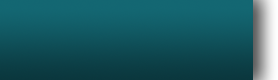
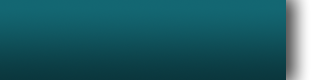
Start of info bar work
ESA logo, donation total area images and clock

Changed region(s): [[0.8921, 0.0, 0.9209, 1.0]]

diff --git a/graphics/info-bar.html b/graphics/info-bar.html
@@ -8,32 +8,38 @@
 		<link href="css/info-bar.css" rel="stylesheet"/>
 		
 		<!-- JavaScript -->
-		<!--<script src="../bower_components/jquery/dist/jquery.min.js"></script>
+		<script src="../bower_components/jquery/dist/jquery.min.js"></script>
 		<script src="../bower_components/moment/min/moment.min.js"></script>
-		<script src="../bower_components/lodash/dist/lodash.min.js"></script>
-		<script src="../bower_components/jquery-animateNumber/jquery.animateNumber.min.js"></script>
+		<!--<script src="../bower_components/lodash/dist/lodash.min.js"></script>-->
+		<!--<script src="../bower_components/jquery-animateNumber/jquery.animateNumber.min.js"></script>-->
 		<script src="js/animation.js"></script>
-		<script src="js/intermission-utils.js"></script>
+		<script src="js/info-bar/tick-handler.js"></script>
 		<script src="js/info-bar/clock.js"></script>
-		<script src="js/info-bar/general.js"></script>-->
+		<script src="js/info-bar/esa-logo.js"></script>
+		<script src="js/info-bar/donation-total.js"></script>
 	</head>
 	<body>
 		<div id="barWrapper" class="storageBox flexContainer">
 			<!-- ESA Logo -->
 			<div id="esaBarLogoContainer" class="barContainers">
-				<div id="esaBarLogo"></div>
+				<img id="esaSmallLogo" src="images/info-bar/esa-small-logo.png">
+				<img id="esaHashtagLogo" src="images/info-bar/esa-hashtag-logo.png">
 			</div>
 			
 			<!-- Donation Total -->
 			<div id="donationTotalContainer" class="barContainers flexContainer textGlow">
-				$100,000
+				<img id="stcIcon" src="images/info-bar/stc-icon.png">
+				<img id="stcText" src="images/info-bar/stc-text.png">
+				<div id="amountText">$100</div>
 			</div>
 			
 			<!-- General Ticker Messages -->
 			<div id="generalMessagesContainer" class="barContainers"></div>
 			
 			<!-- Clock -->
-			<div id="clockContainer" class="barContainers flexContainer textGlow">04:20</div>
+			<div id="clockContainer" class="barContainers flexContainer textGlow">
+				<!-- Current Time -->
+			</div>
 		</div>
 	</body>
 </html>

diff --git a/graphics/css/info-bar.css b/graphics/css/info-bar.css
@@ -30,30 +30,27 @@
 	background-image: url('../images/info-bar/logo-bg.png');
 	padding-right: 25px; /* This is for the shadow part of the image. */
 }
-
-#esaBarLogo {
-	height: 100%;
-	
-	/* These will be switched out by JS. */
-	/*background-image: url('../images/info-bar/esa-hashtag-logo.png');*/
-	background-image: url('../images/info-bar/esa-small-logo.png');
-}
+#esaBarLogoContainer #esaSmallLogo {position: absolute;}
+#esaBarLogoContainer #esaHashtagLogo {position: absolute; opacity: 0;}
 
 /* Donation Total */
 #donationTotalContainer {
 	font-size: 33px;
 	z-index: 1;
 	left: 406px;
-	width: 253px;
+	width: 286px;
 	background-image: url('../images/info-bar/donation-total-bg.png');
 	padding-right: 25px; /* This is for the shadow part of the image. */
 }
+#donationTotalContainer #stcIcon {position: absolute;}
+#donationTotalContainer #stcText {position: absolute; opacity: 0;}
+#donationTotalContainer #amountText {position: absolute; padding-left: 69px;}
 
 /* General Messages */
 #generalMessagesContainer {
 	z-index: 0;
-	left: 659px;
-	width: 1137px;
+	left: 692px;
+	width: 1104px;
 	background-image: url('../images/info-bar/ticker-bg.png');
 }
 
@@ -65,4 +62,8 @@
 	width: 124px;
 	background-image: url('../images/info-bar/clock-bg.png');
 	padding-left: 25px; /* This is for the shadow part of the image. */
+}
+
+#clockContainer span {
+	width: 0.3em;
 }

diff --git a/graphics/js/animation.js b/graphics/js/animation.js
@@ -24,11 +24,13 @@ function animationFadeInElement(selector, callback) {
 	});
 }
 
-/*function animationFadeOutInElements(selector1, selector2) {
-	$(selector1).animate({'opacity': '0'}, 1000, 'linear', function() {
-		$(selector2).animate({'opacity': '1'}, 1000, 'linear');
+// Shorthand function that combines the 2 above functions.
+function animationFadeOutInElements(selector1, selector2, callback) {
+	animationFadeOutElement(selector1);
+	animationFadeInElement(selector2, () => {
+		if (callback) callback();
 	});
-}*/
+}
 
 // Animation lasts under 1 tick (5s) so no extra callbacks are needed.
 /*function animationUpdateDonationTotal(selector, oldValue, newValue) {
@@ -105,7 +107,7 @@ function animationChangePlayerData(selector, playerData, twitch, hideCoop, showC
 
 function animationChangeSponsorImage(element, assetURL) {
 	// Add in the next sponsor logo.
-	var nextElement = $('<img class="sponsorLogo sponsorLogoNext scale">').appendTo(element);
+	var nextElement = $('<img class="sponsorLogo sponsorLogoNext">').appendTo(element);
 	nextElement.attr('src', assetURL);
 	nextElement.on('load', () => {
 		// Fade out current sponsor logo.

diff --git a/graphics/js/info-bar/donation-total.js b/graphics/js/info-bar/donation-total.js
@@ -1,0 +1,31 @@
+'use strict';
+
+// TODO: Change font size depending on how long the donation total string is.
+
+// Declaring other variables.
+var donationTotalLogoCurrentRotation = 0; // 0: total - 1: StC text
+var donationTotalTicks = 0;
+
+function changeDonationTotalStuff() {
+	// JQuery selectors.
+	var amountText = $('#donationTotalContainer #amountText');
+	var stcText = $('#donationTotalContainer #stcText');
+	
+	donationTotalTicks++;
+	
+	// Change to StC text after 30s.
+	if (donationTotalLogoCurrentRotation === 0 && donationTotalTicks >= 7) {
+		animationFadeOutInElements(amountText, stcText);
+		donationTotalTicks = 1;
+		donationTotalLogoCurrentRotation ^= 1; // Toggle between 0 and 1.
+	}
+	
+	// Change to donation total text after 10s.
+	else if (donationTotalLogoCurrentRotation === 1 && donationTotalTicks >= 3) {
+		animationFadeOutInElements(stcText, amountText);
+		donationTotalTicks = 1;
+		donationTotalLogoCurrentRotation ^= 1; // Toggle between 0 and 1.
+	}
+	
+	// other stuff to go here includes changing the total if the above things aren't happening
+}

diff --git a/graphics/js/info-bar/esa-logo.js b/graphics/js/info-bar/esa-logo.js
@@ -1,0 +1,28 @@
+'use strict';
+
+// Declaring other variables.
+var esaBarLogoCurrentRotation = 0; // 0: normal - 1: hashtag
+var esaBarTicks = 0;
+
+function changeESALogo() {
+	// JQuery selectors.
+	var smallLogo = $('#esaBarLogoContainer #esaSmallLogo');
+	var hashtag = $('#esaBarLogoContainer #esaHashtagLogo');
+	
+	// Logo will not change until 7th tick (30 seconds).
+	esaBarTicks++;
+	if (esaBarTicks < 7)
+		return;
+	else
+		esaBarTicks = 1;
+	
+	// Change to hashtag logo after 30s.
+	if (esaBarLogoCurrentRotation === 0)
+		animationFadeOutInElements(smallLogo, hashtag);
+	
+	// Change to normal logo after 30s.
+	else
+		animationFadeOutInElements(hashtag, smallLogo);
+	
+	esaBarLogoCurrentRotation ^= 1; // Toggle between 0 and 1.
+}

diff --git a/graphics/js/info-bar/tick-handler.js b/graphics/js/info-bar/tick-handler.js
@@ -1,0 +1,16 @@
+'use strict';
+$(() => {
+	// The bundle name where all the run information is pulled from.
+	var speedcontrolBundle = 'nodecg-speedcontrol';
+	
+	// Declaring other variables.
+	var tickRate = 5000; // Everything changes/updates every 5 seconds.
+	
+	// This is where everything changes or checks for changes so they all happen at the same time.
+	// First timeout is a dirty hack to wait for the replicants to be ready.
+	setTimeout(tick, 200); setInterval(tick, tickRate);
+	function tick() {
+		changeESALogo(); // esa-logo.js
+		changeDonationTotalStuff(); // donation-total.js
+	}
+});

diff --git a/graphics/js/info-bar/clock.js b/graphics/js/info-bar/clock.js
@@ -1,0 +1,16 @@
+'use strict';
+$(() => {
+	// JQuery selectors.
+	var clockContainer = $('#clockContainer');
+	
+	// Simple clock with flashing colon.
+	var hasColon = false;
+	setClock();
+	setInterval(setClock, 1000);
+	function setClock() {
+		var currentTime = moment().format('HH mm');
+		if (hasColon) clockContainer.html(currentTime.replace(' ', '<span> </span>'));
+		else clockContainer.html(currentTime.replace(' ', '<span>:</span>'));
+		hasColon = !hasColon;
+	}
+});
